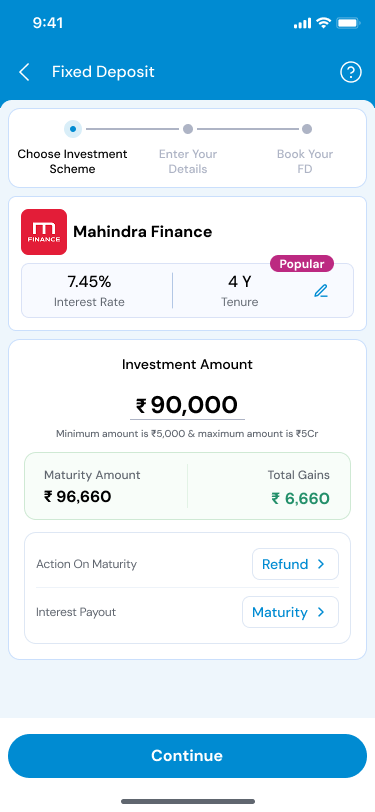
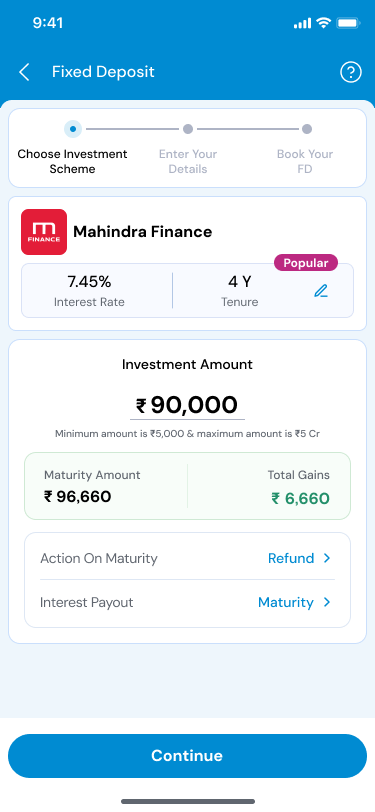
Update VP, DG and FD portfolio case studies

diff --git a/app/lib/projects.ts b/app/lib/projects.ts
@@ -25,7 +25,7 @@ export type ProjectStoryPin = {
   highlight?: string;
   footnote?: string;
   visual?: string;
-  screens?: Array<{ src: string; alt: string; staticViewport?: boolean; scrollViewport?: boolean }>;
+  screens?: Array<{ src: string; alt: string; label?: string; staticViewport?: boolean; scrollViewport?: boolean }>;
   variant?: "wide" | "accent" | "visual";
 };
 
@@ -66,15 +66,15 @@ export const projects: Project[] = [
     eyebrow: "Muthoot · Product redesign",
     title: "Digital Gold",
     description:
-      "Placeholder for a sharper story about redesigning a high-trust investment experience.",
+      "Redesigning Digital Gold around clearer investment choices and different saving scenarios.",
     metric: "4.6%",
     metricLabel: "Transaction baseline",
     category: "DIGITAL GOLD · MUTHOOT FINCORP ONE",
     headline: "80K+ entered. Only 4.6% transacted.",
     metadata: [
-      "Sole Product Designer",
+      "Product Designer · Experience Redesign",
       "Research → Strategy → UX/UI → Prototype",
-      "Redesign · Impact not yet measured",
+      "Saving-led investment journeys",
     ],
     stats: [
       { value: "80,554", label: "Entered Digital Gold journey" },
@@ -83,15 +83,15 @@ export const projects: Project[] = [
     ],
     storyPins: [
       {
-            "eyebrow": "The problem · Existing 30-day funnel",
+            "eyebrow": "The problem · Transaction completion",
             "title": "The largest gap came before Buy Now.",
-            "body": "Digital Gold lets customers buy and accumulate gold digitally. The existing 30-day funnel lost most users before Buy Now; 5,605 then proceeded to payment. That located the problem, but did not explain whether expectations, comprehension or another barrier caused it.",
-            "footnote": "The opening snapshot shows the observed funnel. It is a baseline, not evidence of redesign impact."
+            "body": "The existing Digital Gold journey attracted interest, but only 4.6% of journey entries resulted in completed transactions. The funnel showed where users were dropping off, particularly before they initiated a purchase. This led me to examine how the experience communicated digital gold, presented investment choices and guided users towards their first purchase.",
+            "footnote": "Original funnel: 80,554 journey entries → 8,502 reached Buy Now → 5,605 proceeded to payment → 3,704 completed transactions."
       },
       {
             "eyebrow": "Talking to real users · Exploratory branch research",
             "title": "Some customers saw a jewellery journey.",
-            "body": "In direct conversations, some customers scrolled to the jewellery catalogue and asked whether the displayed jewellery could be bought on EMI. Some treated the calculator as a way to check gold weight or rate for a jewellery purchase.",
+            "body": "Exploratory customer conversations revealed that some customers assumed the jewellery shown could be purchased through EMI. Some treated the calculator as a way to check gold weight or rate for a jewellery purchase. This suggested that the catalogue was shaping expectations before the page had explained Digital Gold as an investment product.",
             "items": [
                   {
                         "value": "Observed interpretation",
@@ -105,20 +105,18 @@ export const projects: Project[] = [
                         "value": "Design response",
                         "label": "Lead with the saving proposition and explicit monthly, weekly and one-time choices."
                   }
-            ],
-            "footnote": "Directional evidence from exploratory conversations. The project records one branch visit and three conversations; transcripts and verbatim quotes are unavailable, so no prevalence is claimed."
+            ]
       },
       {
-            "eyebrow": "Research → design principle",
-            "title": "Make the first choice match the reason for arriving.",
-            "body": "The mental-model mismatch called for more than rearranging the page. The first brief allowed roughly two days and kept the calculator unchanged to limit development effort. Business/Growth then pushed for a more meaningful revamp, opening space for the saving-led entry shown below.",
-            "highlight": "Lead with the saving intention.",
-            "footnote": "The initial assumption that customers already understood the calculator was not established by the conversations. The current design response still needs outcome measurement."
+            "eyebrow": "Design decision · Clear saving actions",
+            "title": "Make the next action obvious.",
+            "body": "I separated Save Monthly, Save Weekly and Buy Digital Gold into explicit entry points. Customers can choose a regular saving rhythm or a one-time purchase before entering an amount. Clear investment messaging and action labels address the jewellery-EMI assumption and explain how to begin saving in gold.",
+            "highlight": "Choose how to save, then decide how much."
       },
       {
             "eyebrow": "Before → after · Landing, top",
             "title": "Give saving its own front door.",
-            "body": "To distinguish investing from jewellery shopping, I put the saving proposition and Save Monthly / Save Weekly / Buy Gold choices before the transaction flow. The previous entry led with balance, price, a chart and the calculator. The new hierarchy explains the available actions before asking for an amount.",
+            "body": "The previous entry led with balance, price, a chart and the calculator. The redesigned first fold introduces the saving proposition and clear entry points before the transaction flow, helping first-time customers understand the product before committing to an amount.",
             "screens": [
                   {
                         "src": "/dg-evidence/before-top.png",
@@ -126,32 +124,23 @@ export const projects: Project[] = [
                         "scrollViewport": true
                   },
                   {
-                        "src": "/dg-evidence/after-top.png",
+                        "src": "/dg-evidence/new-user.png",
                         "alt": "AFTER — FIRST FOLD",
                         "staticViewport": true
                   }
             ],
             "variant": "visual",
-            "footnote": "Static first-fold viewports compare the initial entry experience. Lower-page sections appear in the next pin."
+            "footnote": "Compare the initial entry hierarchy: the existing experience and the latest new-user design."
       },
       {
-            "eyebrow": "Before → after · Landing, continued",
-            "title": "Explain accumulation before the catalogue.",
-            "body": "The redesigned continuation explains how recurring contributions accumulate, then presents supporting information and the coins/jewellery catalogue. The catalogue remains available, but no longer defines the main entry story. These screens do not implement a personal gold or jewellery goal.",
-            "screens": [
-                  {
-                        "src": "/dg-evidence/before-continued.png",
-                        "alt": "BEFORE — BELOW THE FOLD",
-                        "scrollViewport": true
-                  },
-                  {
-                        "src": "/dg-evidence/after-continued.png",
-                        "alt": "AFTER — BELOW THE FOLD",
-                        "scrollViewport": true
-                  }
-            ],
-            "variant": "visual",
-            "footnote": "Each image starts exactly where its top section ends. Illustrative growth values and trust claims are supplied UI copy, not validated portfolio results."
+            "eyebrow": "Design decision · User scenarios",
+            "title": "One product. Three different starting points.",
+            "body": "New users need to understand Digital Gold and choose how to start. Returning users without a SIP need visibility into their holdings and a clear route into regular saving. Returning SIP users need to review progress and continue investing. I designed these three scenarios around those different information needs and next actions.",
+            "items": [
+                  { "value": "New user", "label": "Explain the product, saving choices and how gold can accumulate." },
+                  { "value": "Returning user without SIP", "label": "Surface current holdings and encourage a regular saving habit." },
+                  { "value": "Returning SIP user", "label": "Prioritise savings progress and continued investment." }
+            ]
       },
       {
             "eyebrow": "Design decision · From intention to setup",
@@ -163,72 +152,76 @@ export const projects: Project[] = [
                         "alt": "AFTER — RECURRING SAVING"
                   }
             ],
-            "variant": "visual",
-            "footnote": "This screen demonstrates the design response. It does not prove recurring-saving adoption or mandate completion."
+            "variant": "visual"
       },
       {
-            "eyebrow": "Constraint → stakeholder input → deeper redesign",
-            "title": "The scope changed, not just the layout.",
-            "items": [
-                  {
-                        "value": "Initial brief",
-                        "label": "Approximately two days; low development effort; retain the calculator because the PM assumed users understood it."
-                  },
-                  {
-                        "value": "First response",
-                        "label": "Work largely within the existing product structure."
-                  },
-                  {
-                        "value": "Broader revamp",
-                        "label": "Business/Growth challenged a purely reorganised landing page; the direction expanded to clearer saving choices and setup."
-                  }
+            "eyebrow": "Scenario 1 · New user",
+            "title": "Understand the product before starting.",
+            "body": "The new-user journey introduces saving choices, explains the three steps to begin and shows how regular contributions can accumulate. Jewellery redemption follows that investment explanation, so the catalogue supports the proposition rather than defining it.",
+            "screens": [
+                  { "src": "/dg-evidence/new-user.png", "alt": "NEW USER" }
             ],
-            "footnote": "The supplied screens show the current direction, not a complete archive of every iteration."
+            "footnote": "Helping first-time users understand the product and choose how to begin.",
+            "variant": "visual"
       },
       {
-            "eyebrow": "Ownership",
-            "title": "One design owner, multiple perspectives.",
-            "body": "As sole Product Designer, I owned strategy, flows, interaction, UI and prototyping. Customer conversations challenged the intended mental model; PM constraints shaped the first response, and Business/Growth input broadened the revamp."
+            "eyebrow": "Scenario 2 · Returning user without SIP",
+            "title": "Connect existing holdings to a saving habit.",
+            "body": "The gold balance makes the customer's existing investment visible. Monthly and weekly saving remain accessible alongside one-time buying, while the growth illustration connects a regular contribution to longer-term accumulation.",
+            "screens": [
+                  { "src": "/dg-evidence/returning-no-sip.png", "alt": "RETURNING USER WITHOUT SIP" }
+            ],
+            "footnote": "Making existing holdings visible while encouraging users to build a regular saving habit.",
+            "variant": "visual"
       },
       {
-            "eyebrow": "Learning · What the evidence supports",
-            "title": "The funnel located the gap. Conversations gave it context.",
-            "body": "The funnel identified weak progression; customer conversations revealed a jewellery-purchase interpretation. I responded with clearer saving choices and recurring setup. That is a supported design rationale, not proof that the redesign improved conversion.",
-            "highlight": "A directional finding became a testable product decision."
+            "eyebrow": "Scenario 3 · Returning SIP user",
+            "title": "Make progress the reason to keep saving.",
+            "body": "For customers who already save regularly, the journey prioritises their balance and savings progress. Invest More gives them a direct next action, while access to holdings and the wider saving choices keeps the experience connected.",
+            "screens": [
+                  { "src": "/dg-evidence/returning-sip.png", "alt": "RETURNING SIP USER" }
+            ],
+            "footnote": "Prioritising progress and continued investment for users who already save regularly.",
+            "variant": "visual"
       },
       {
-            "eyebrow": "Expected measurement",
-            "title": "Measure movement through the existing funnel.",
-            "body": "Compare Digital Gold journey entry → Buy Now → payment → completed transaction with the existing baseline. Check whether customers understand the investment purpose and can reach purchase intent. No post-launch improvement is documented here.",
-            "footnote": "Existing analytics are baseline evidence. The screens show design changes; their effect on the funnel remains to be measured.",
+            "eyebrow": "Measuring success",
+            "title": "Measuring whether clearer journeys lead to more investments.",
+            "body": "I'd evaluate whether clearer product messaging and saving actions help more users move from interest to purchase and recurring saving. The funnel figures describe baseline performance; the targets below are proposed improvements, not achieved results.",
+            "items": [
+                  { "value": "Transaction completion", "label": "Baseline: 4.6% · Illustrative target: 6–7%" },
+                  { "value": "Buy Now engagement", "label": "Target: Increase relative to existing baseline" },
+                  { "value": "Recurring saving setup completion", "label": "Target: Establish baseline and improve after launch" }
+            ],
+            "highlight": "Good investment experiences don't just encourage the first purchase. They make it easier to understand, start and keep saving.",
             "variant": "wide"
       }
 ],
     opportunity: {
       title: "The largest gap came before Buy Now.",
-      body: "In 30 days, 80,554 entered, 8,502 reached Buy Now, 5,605 proceeded to payment and 3,704 completed. This identified weak progression, not its cause.",
+      body: "In 30 days, 80,554 entered, 8,502 reached Buy Now, 5,605 proceeded to payment and 3,704 completed. The largest drop-off occurred before customers initiated a purchase.",
     },
     problem: {
       title: "Some customers interpreted a jewellery-purchase journey.",
-      body: "Customers asked about EMI for displayed jewellery and used the calculator to interpret gold weight or rate for a purchase. These exploratory observations do not establish prevalence.",
+      body: "Exploratory customer conversations revealed that some customers assumed the displayed jewellery could be purchased through EMI. This informed clearer investment messaging and saving actions.",
     },
     decisions: [
-      { title: "Work within the first brief", body: "Approximately two days, limited development effort and an unchanged calculator constrained the initial landing redesign." },
-      { title: "Use the revamp to clarify the product", body: "Business/Growth pushed beyond rearrangement toward a clearer saving proposition, action choices and recurring setup." },
+      { title: "Make the next action obvious.", body: "Separate Save Monthly, Save Weekly and Buy Digital Gold so customers can choose how to begin." },
+      { title: "One product. Three different starting points.", body: "New users, returning users without SIP and returning SIP users need different information and next actions." },
     ],
     solution: {
       title: "Make the saving and buying routes explicit.",
-      body: "The current screens distinguish monthly saving, weekly saving and one-time buying. Recurring setup exposes amount, frequency and date; a personal gold/jewellery goal is not implemented in these screens.",
+      body: "The current screens distinguish monthly saving, weekly saving and one-time buying. The three user scenarios connect product understanding, holdings and savings progress to the appropriate next action.",
       highlight: "Lead with the saving intention.",
     },
     impact: {
-      title: "Measure the existing funnel.",
-      body: "Compare journey entry, Buy Now, payment and transaction completion with the baseline. No post-launch uplift is documented.",
+      title: "Measuring whether clearer journeys lead to more investments.",
+      body: "Transaction completion baseline: 4.6%; illustrative target: 6–7%. Increase Buy Now engagement relative to its baseline and establish a recurring-saving setup baseline after launch. These are proposed targets, not achieved results.",
       sectionLabel: "05 — Expected measurement",
       showMetric: false,
     },
     caseStudyMetric: "4.6%",
-    caseStudyMetricLabel: "Baseline completion · redesign impact unmeasured",
+    caseStudyMetricLabel: "Transaction completion baseline",
   },
   {
     slug: "vyapar-plus",
@@ -292,10 +285,10 @@ export const projects: Project[] = [
             "footnote": "Sep 1–11, 2026 · Digital onboarding cohort"
       },
       {
-            "eyebrow": "Technical constraint · Third-party APIs",
-            "title": "Clarify the journey around fixed API steps.",
-            "body": "Several financial-service integrations prescribed the steps and order needed to work. I could not freely redesign those underlying flows, so I focused on hierarchy, states, transitions and guidance. Where available, Udyam/GST prefill reduced entry while failure and alternative routes remained necessary.",
-            "highlight": "Make constrained journeys understandable."
+            "eyebrow": "DESIGNING AROUND API CONSTRAINTS",
+            "title": "Going beyond what the API provides.",
+            "body": "The third-party integration supported retrieving existing beneficiaries, but that alone didn't give merchants a complete picture of their past transfers. I proposed bringing beneficiary-specific transaction history into the same experience, making it easier to review previous activity without navigating between separate flows.",
+            "highlight": "Design for the user's context, not just the API's capabilities."
       },
       {
             "eyebrow": "The dashboard",
@@ -322,7 +315,7 @@ export const projects: Project[] = [
             "screens": [
                   {
                         "src": "/vp-android/transaction-history.png",
-                        "alt": "Supplied customer Transaction History within Beneficiary Details"
+                        "alt": "Kirana Transaction History with filters, transaction statuses, expanded details and Download Full Report"
                   },
                   {
                         "src": "/vp-android/wallet-ledger.png",
@@ -390,21 +383,21 @@ export const projects: Project[] = [
             "footnote": "Reported business results for the first two weeks. These are distinct from BRD targets and the Sep 1–11 digital-onboarding cohort; they do not isolate the effect of a particular design decision."
       },
       {
-            "eyebrow": "Product decision / reflection",
-            "title": "Designing for the business, not just the feature.",
-            "body": "The dashboard brings transactions, earnings, payouts and leads into one merchant business view. The reasoning was to connect activity with its financial meaning while retaining clear paths into the individual tasks. No specific stakeholder-rejection account is claimed.",
-            "highlight": "A merchant shouldn’t have to reconstruct their business from separate features."
+            "eyebrow": "THE DESIGN DECISIONS",
+            "title": "Designing a product, not a collection of screens.",
+            "body": "As the sole Product Designer for Vyapar Plus, I worked across onboarding, financial transactions, earnings, and lead generation. Each feature had its own requirements, but the challenge was making them feel like one connected experience. I focused on simplifying complex journeys, establishing consistent interaction patterns, and helping merchants understand what they could do next.",
+            "highlight": "Consistency wasn't just visual. It was about making different services feel like one product."
       },
       {
-            "eyebrow": "The bigger picture",
-            "title": "What started as an app became a distribution workflow.",
+            "eyebrow": "WHAT I LEARNED",
+            "title": "Ownership taught me when to simplify, question, and compromise.",
             "flow": [
                   "Merchant activity",
                   "Financial opportunity",
                   "Field execution",
                   "Conversion"
             ],
-            "body": "The shipped system connected merchant activity with field execution. Early business results show uptake; long-term merchant activity, earnings and the effect of individual design decisions still need further evidence."
+            "body": "Designing Vyapar Plus end-to-end meant balancing merchant needs, business priorities, technical constraints, and delivery timelines. Not every decision had an obvious answer. I learned to question requirements, explain my reasoning to stakeholders, and make practical trade-offs without losing sight of the user experience. My biggest learning: Good design isn't about having complete freedom. It's about making thoughtful decisions within real constraints."
       }
 ],
     opportunity: {
@@ -444,7 +437,7 @@ export const projects: Project[] = [
     metricLabel: "Partner-selection baseline",
     category: "FIXED DEPOSIT · INVESTMENT EXPERIENCE",
     headline: "Redesigning Fixed Deposits around informed investment decisions.",
-    metadata: ["Product Designer", "Under review · Not yet shipped", "Measurement planned post-launch"],
+    metadata: ["Product Designer", "Launch planned", "Measurement planned post-launch"],
     snapshotLabel: "Existing funnel · Baseline",
     snapshotFootnote: "Existing experience baseline — not redesign outcomes. Analytics show progression, not the cause of drop-off.",
     stats: [
@@ -457,7 +450,7 @@ export const projects: Project[] = [
             "eyebrow": "Evidence · Analytics + PM-relayed feedback",
             "title": "The funnel showed where progression weakened. Feedback helped explain what users were struggling with.",
             "body": "The existing selection experience was already difficult to interpret during internal review. The PM then spoke with customers who also reported difficulty understanding it. Funnel analytics separately showed weak progression through the journey.",
-            "footnote": "Customer feedback was relayed through the PM. Analytics identified the progression problem, but did not prove that comprehension caused the drop-off."
+            "footnote": "The existing funnel revealed significant drop-offs during investment selection. Reviewing the journey highlighted opportunities to simplify scheme comparison, improve information hierarchy, and make investment decisions easier to navigate. These observations shaped the redesign direction."
       },
       {
             "eyebrow": "UX diagnosis",
@@ -476,7 +469,7 @@ export const projects: Project[] = [
             "highlight": "One decision → its outcome → one next step."
       },
       {
-            "eyebrow": "Before → After · Under review",
+            "eyebrow": "Before → After · Launch planned",
             "title": "Bring the scheme and its outcome together.",
             "body": "The selected scheme now brings rate, tenure, amount and expected returns together. One Continue action follows the information needed to assess the investment.",
             "screens": [
@@ -493,27 +486,34 @@ export const projects: Project[] = [
             "footnote": "The old amount step already showed maturity value and gains. The change consolidates that information rather than introducing it."
       },
       {
-            "eyebrow": "Before → After · Under review",
-            "title": "Make changing tenure a focused decision.",
-            "body": "Move alternatives into a focused tenure/rate sheet instead of showing several scheme cards in the main decision view. Eligibility toggles remain available; Apply confirms the choice.",
+            "eyebrow": "INVESTMENT CONFIGURATION",
+            "title": "Making investment choices easier to review.",
+            "body": "Once users enter the investment journey, they can adjust the amount, review their selected tenure and payout preferences, and see the corresponding maturity value. A dedicated tenure-selection sheet keeps alternative rates accessible without crowding the main investment screen.",
             "screens": [
                   {
-                        "src": "/fd-iphone/before-schemes.png",
-                        "alt": "Before: Make changing tenure a focused decision."
+                        "src": "/fd-iphone/investment-details.png",
+                        "alt": "Investment details with amount, selected tenure, payout preferences, maturity amount and gains",
+                        "label": "INVESTMENT DETAILS"
                   },
                   {
                         "src": "/fd-iphone/after-tenure.png",
-                        "alt": "After: Make changing tenure a focused decision."
+                        "alt": "Tenure-selection bottom sheet",
+                        "label": "TENURE SELECTION"
                   }
             ],
             "variant": "visual",
             "footnote": "Design intent: reduce the need to interpret several scheme cards. A usability improvement has not yet been measured."
       },
       {
-            "eyebrow": "Success metric · Measurement planned",
-            "title": "Measure whether clearer decisions improve progression.",
-            "body": "After release, compare FD entry → Mahindra selection → Book Now against the current funnel. Better progression would support the direction; comprehension still needs to be checked separately. No achieved redesign impact is available.",
-            "footnote": "Under review · Not yet shipped · Impact measurement planned post-launch",
+            "eyebrow": "HOW I'D MEASURE SUCCESS",
+            "title": "From clearer decisions to stronger conversion.",
+            "body": "The redesign focuses on reducing friction during investment selection and helping users confidently progress toward booking. I'd evaluate its effectiveness against the existing funnel using the following targets.",
+            "items": [
+                  { "value": "FD page view → Mahindra selection", "label": "Baseline: 5.6% · Illustrative target: 8%" },
+                  { "value": "Mahindra selection → Book Now", "label": "Baseline: 19.1% · Illustrative target: 25%" }
+            ],
+            "highlight": "Proposed illustrative targets, not achieved improvements.",
+            "footnote": "Success means helping more users move from exploring an FD to confidently starting an investment.",
             "variant": "wide"
       }
 ],

diff --git a/app/components/ProjectMode.tsx b/app/components/ProjectMode.tsx
@@ -136,7 +136,7 @@ export function ProjectMode({ project, otherProjects, phase, onSwitchProject }: 
                           <figure className="project-phone" key={screen.src}>
                             {project.slug === "fixed-deposit" ? (
                               <>
-                                <figcaption className="fd-phone-label">{screenIndex === 0 ? "BEFORE" : "AFTER"}</figcaption>
+                                <figcaption className="fd-phone-label">{screen.label ?? (screenIndex === 0 ? "BEFORE" : "AFTER")}</figcaption>
                                 <div className="fd-phone-device">
                                   <div className="fd-phone-display" tabIndex={0} role="region" aria-label={`${screen.alt} — scroll to view full screen`}>
                                     <img src={screen.src} alt={screen.alt} />
